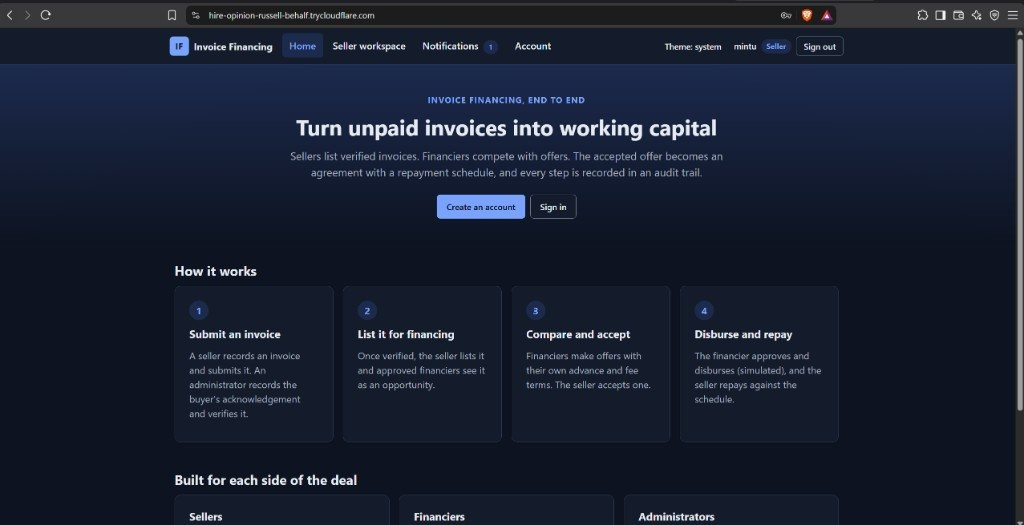
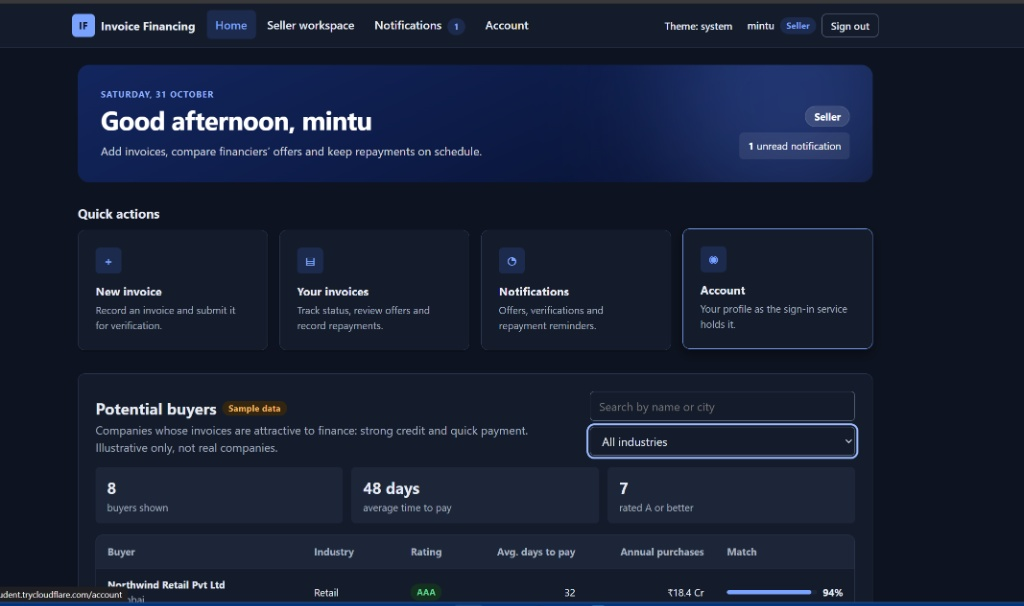
fix(projects): update invoice financing project screenshot to seller workspace dashboard

diff --git a/src/data/projects.ts b/src/data/projects.ts
@@ -103,7 +103,7 @@ export const projects: Project[] = [
     github: 'https://github.com/harshit-soni-2004/invoice-financing-platform',
     image: 'projects/invoice-financing-home.jpg',
     imageAlt:
-      'Invoice Financing home page: "Turn unpaid invoices into working capital" hero with sign-up and sign-in buttons, and a four-step how-it-works strip — submit an invoice, list it for financing, compare and accept offers, disburse and repay.',
+      'Invoice Financing seller dashboard: greeting for mintu, quick actions for invoices and notifications, and potential buyers directory with credit ratings and payment metrics.',
     featured: true,
     date: '2026-10',
     context: 'Personal',
